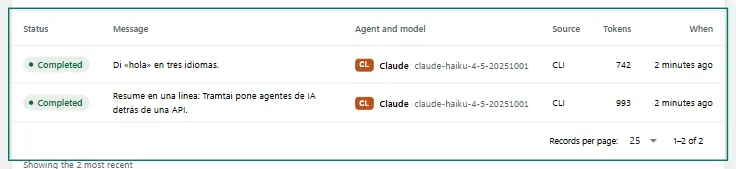
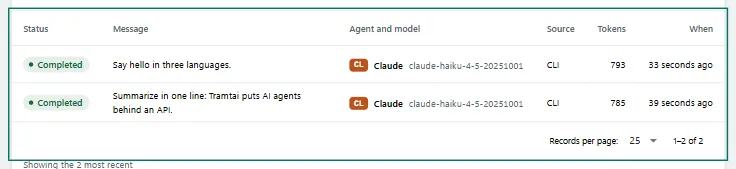
fix(sitio): el Historial de las capturas en inglés enseña peticiones en inglés
capturas.mjs saca primero todo lo del español y luego todo lo del inglés; antes del inglés vacía el Historial y repite las peticiones de ejemplo en inglés (PETICIONES en capturas-lista.ts). --solo admite varios id separados por comas. Regeneradas la terminal de la portada y las capturas del Historial (Ayuda y recorrido) en los dos idiomas, con cuatro peticiones reales a claude/haiku; capturas.test.ts comprueba que cada Historial de terminal.json solo trae las de su idioma.

diff --git a/site/index.html b/site/index.html
@@ -864,8 +864,8 @@ curl http://127.0.0.1:17373/openai/v1/chat/completions \
 <div class="ventana-pantalla" id="terminal-historial-panel" aria-labelledby="terminal-historial" tabindex="0">
 <pre class="pantalla" lang="es" role="img" aria-label="La terminal en Historial: las peticiones recientes, con su estado, y los filtros"><span class="t-acento t-b">Tramtai</span> <span class="t-acento t-b">Historial</span>                                                               Global <span class="t-suave">·</span> <span class="t-ok g">●</span><span class="t-ok"> En marcha</span>
 <span class="t-suave t-b">Empezar</span>             <span class="t-suave">│</span> <span class="t-suave">Estado: Todas · Origen: Todos los orígenes</span>                                    
-  1 Inicio          <span class="t-suave">│</span> <span class="t-texto tf-velo g">▸</span><span class="t-texto tf-velo"> </span><span class="t-texto tf-velo g">✓</span><span class="t-texto tf-velo"> Completado   Di «hola» en tres idiomas.                         hace 1 min</span>
-  2 Agentes         <span class="t-suave">│</span>   <span class="g">✓</span> Completado   Resume en una línea: Tramtai pone agentes de IA d… hace 1 min
+  1 Inicio          <span class="t-suave">│</span> <span class="t-texto tf-velo g">▸</span><span class="t-texto tf-velo"> </span><span class="t-texto tf-velo g">✓</span><span class="t-texto tf-velo"> Completado   Di «hola» en tres idiomas.                          hace 29 s</span>
+  2 Agentes         <span class="t-suave">│</span>   <span class="g">✓</span> Completado   Resume en una línea: Tramtai pone agentes de IA d…  hace 35 s
   3 Probar          <span class="t-suave">│</span> <span class="t-suave">Mostrando las 2 más recientes</span>                                                 
                     <span class="t-suave">│</span>                                                                               
 <span class="t-suave t-b">Usar</span>                <span class="t-suave">│</span>                                                                               
@@ -892,8 +892,8 @@ curl http://127.0.0.1:17373/openai/v1/chat/completions \
 <span class="t-acento t-b">Enter</span> <span class="t-suave">detalles · </span><span class="t-acento t-b">/</span> <span class="t-suave">busca · </span><span class="t-acento t-b">e</span> <span class="t-suave">Estado · </span><span class="t-acento t-b">f</span> <span class="t-suave">Origen · </span><span class="t-acento t-b">t</span> <span class="t-suave">Reintentar · </span><span class="t-acento t-b">x</span> <span class="t-suave">El…</span>   <span class="t-acento t-b">Tab</span> <span class="t-suave">menú · </span><span class="t-acento t-b">?</span> <span class="t-suave">ayuda · </span><span class="t-acento t-b">q</span> <span class="t-suave">salir</span></pre>
 <pre class="pantalla" lang="en" role="img" aria-label="The terminal on History: the recent requests, with their status, and the filters"><span class="t-acento t-b">Tramtai</span> <span class="t-acento t-b">History</span>                                                                   Global <span class="t-suave">·</span> <span class="t-ok g">●</span><span class="t-ok"> Running</span>
 <span class="t-suave t-b">Get started</span>         <span class="t-suave">│</span> <span class="t-suave">Status: All · Source: All sources</span>                                             
-  1 Home            <span class="t-suave">│</span> <span class="t-texto tf-velo g">▸</span><span class="t-texto tf-velo"> </span><span class="t-texto tf-velo g">✓</span><span class="t-texto tf-velo"> Completed    Di «hola» en tres idiomas.                          1 min ago</span>
-  2 Agents          <span class="t-suave">│</span>   <span class="g">✓</span> Completed    Resume en una línea: Tramtai pone agentes de IA d…  1 min ago
+  1 Home            <span class="t-suave">│</span> <span class="t-texto tf-velo g">▸</span><span class="t-texto tf-velo"> </span><span class="t-texto tf-velo g">✓</span><span class="t-texto tf-velo"> Completed    Say hello in three languages.                        33 s ago</span>
+  2 Agents          <span class="t-suave">│</span>   <span class="g">✓</span> Completed    Summarize in one line: Tramtai puts AI agents beh…   38 s ago
   3 Playground      <span class="t-suave">│</span> <span class="t-suave">Showing the 2 most recent</span>                                                     
                     <span class="t-suave">│</span>                                                                               
 <span class="t-suave t-b">Use</span>                 <span class="t-suave">│</span>                                                                               

diff --git a/web/scripts/capturas.test.ts b/web/scripts/capturas.test.ts
@@ -4,7 +4,7 @@ import { readdirSync, statSync } from 'node:fs'
 import { temas } from '../src/ayuda/indice.ts'
 import { capturaDeAncla } from '../src/ayuda/vista.ts'
 import { readFileSync } from 'node:fs'
-import { ANCHO_AYUDA, ANCLAS, CAPTURAS, POR_SACAR, ansiAHtml, medidas, PORTADA, redEnMovimiento, revisarAnclas, rutaPrivada, SIN_CAPTURA, TERMINAL, TOKENS_TERMINAL } from './capturas-lista.ts'
+import { ANCHO_AYUDA, ANCLAS, CAPTURAS, POR_SACAR, ansiAHtml, medidas, PETICIONES, PORTADA, redEnMovimiento, revisarAnclas, rutaPrivada, SIN_CAPTURA, TERMINAL, TOKENS_TERMINAL } from './capturas-lista.ts'
 
 const carpeta = new URL('../src/ayuda/capturas/', import.meta.url)
 const citadas = new Set(temas.flatMap((t) => t.bloques.flatMap((b) => (b.tipo === 'captura' ? [b.id] : []))))
@@ -181,6 +181,11 @@ test('terminal.json trae las seis pantallas completas, con clases de token, sin 
       assert.ok(!html.replace(/<span class="[^"<>]*">|<\/span>/g, '').includes('<'), `${donde}: una etiqueta que no es <span class>`)
     }
     assert.doesNotMatch(t[idioma].historial, /Aún no hay peticiones|No requests yet/, `${idioma}: el Historial tiene peticiones`)
+    // Las peticiones del Historial están en el idioma de la captura (PETICIONES), nunca en el otro.
+    const historial = t[idioma].historial.replace(/<[^>]+>/g, '')
+    const otro = idioma === 'es' ? 'en' : 'es'
+    for (const p of PETICIONES[idioma]) assert.ok(historial.includes(p.slice(0, 12)), `${idioma}/historial: falta «${p}»`)
+    for (const p of PETICIONES[otro]) assert.ok(!historial.includes(p.slice(0, 12)), `${idioma}/historial: sale «${p}»`)
     // Inicio sale igual en los dos idiomas: la red quieta, con su texto y ninguna fila de petición.
     const red = textos[idioma]['inicio.redTexto'].slice(0, 20)
     assert.ok(t[idioma].inicio.replace(/<[^>]+>/g, '').includes(red), `${idioma}/inicio: la red no está vacía (falta «${red}»)`)

diff --git a/web/scripts/capturas-lista.ts b/web/scripts/capturas-lista.ts
@@ -38,6 +38,13 @@ export const TERMINAL: { nombre: 'inicio' | 'apis' | 'historial'; teclas: string
   { nombre: 'historial', teclas: ['5'] },
 ]
 
+// PETICIONES son las peticiones de ejemplo que llenan el Historial, en el idioma de cada captura (las del inglés no
+// deben enseñar texto en español, ni al revés).
+export const PETICIONES: Record<'es' | 'en', string[]> = {
+  es: ['Resume en una línea: Tramtai pone agentes de IA detrás de una API.', 'Di «hola» en tres idiomas.'],
+  en: ['Summarize in one line: Tramtai puts AI agents behind an API.', 'Say hello in three languages.'],
+}
+
 // TOKENS_TERMINAL traduce cada color que pinta la TUI (internal/tui/tema.go, la paleta clara y la oscura de
 // docs/diseno/DESIGN.md) al token de DESIGN.md: por eso un solo HTML sirve en los dos temas del sitio. Cada token lleva su
 // color de día y el de noche; velo es el fondo de la fila elegida.

diff --git a/docs/equipo/desarrollo.md b/docs/equipo/desarrollo.md
@@ -87,7 +87,7 @@ desde los mismos datos.
   texto sin usar. `capturas.test.ts` exige las cuatro variantes de cada captura, ninguna huérfana y 5 MB en total (las de los pasos de los recorridos, `recorrido-<ancla>`, incluidas).
 - **Sitio:** `cd web; npm run sitio` escribe `site/ayuda/` y la página de paso `site/ayuda.html`; el CI lo regenera y
   falla si lo guardado no coincide.
-- **Capturas:** `cd web; npm run build; npm run capturas` (o `-- --solo <id>`) compila Tramtai en `bin/`, la arranca
+- **Capturas:** `cd web; npm run build; npm run capturas` (o `-- --solo <id>`, varios separados por comas) compila Tramtai en `bin/`, la arranca
   portable en otro puerto con datos de ejemplo y saca cada zona `[data-captura="<id>"]` en claro y oscuro y en español e
   inglés, el elemento de cada paso de los recorridos con su anillo (`-- --recorridos` saca solo esas; una ancla que la demo no muestra va en `SIN_CAPTURA`, con su motivo) y las de la portada. Necesita Edge o Chrome y un agente conectado (`TRAMTAI_CAPTURAS_MODELO`, por defecto
   `claude/haiku`); se corre en el equipo de desarrollo cuando cambia una pantalla que sale en la Ayuda. Las de la Ayuda
@@ -103,7 +103,8 @@ desde los mismos datos.
 - **La terminal de la portada es texto:** `npm run capturas -- --terminal` (también sale en la corrida completa) pinta
   Inicio, Mis APIs e Historial (`TERMINAL` en `capturas-lista.ts`) a 100×28, en español y en inglés, y guarda su HTML en
   `site/capturas/terminal.json` (`{"es":{"inicio":"…","apis":"…","historial":"…"},"en":{…}}`). Hace dos peticiones reales
-  a `claude/haiku` con la suscripción de quien la corre (para que el Historial tenga entradas) y se para si una pantalla
+  por idioma a `claude/haiku` con la suscripción de quien la corre (para que el Historial tenga entradas en el idioma de
+  la captura: `PETICIONES` en `capturas-lista.ts`; antes de las del inglés vacía el Historial) y se para si una pantalla
   muestra una ruta del equipo, si quedó en «Comprobando…», si la red de Inicio sigue en movimiento («N peticiones en
   curso» o filas ya terminadas como «terminada 9 s», que Inicio deja a la vista unos segundos antes de quitarlas) o si
   el Historial está vacío. `tui.Captura` no da por asentada una vista así: espera a que la red quede vacía.
